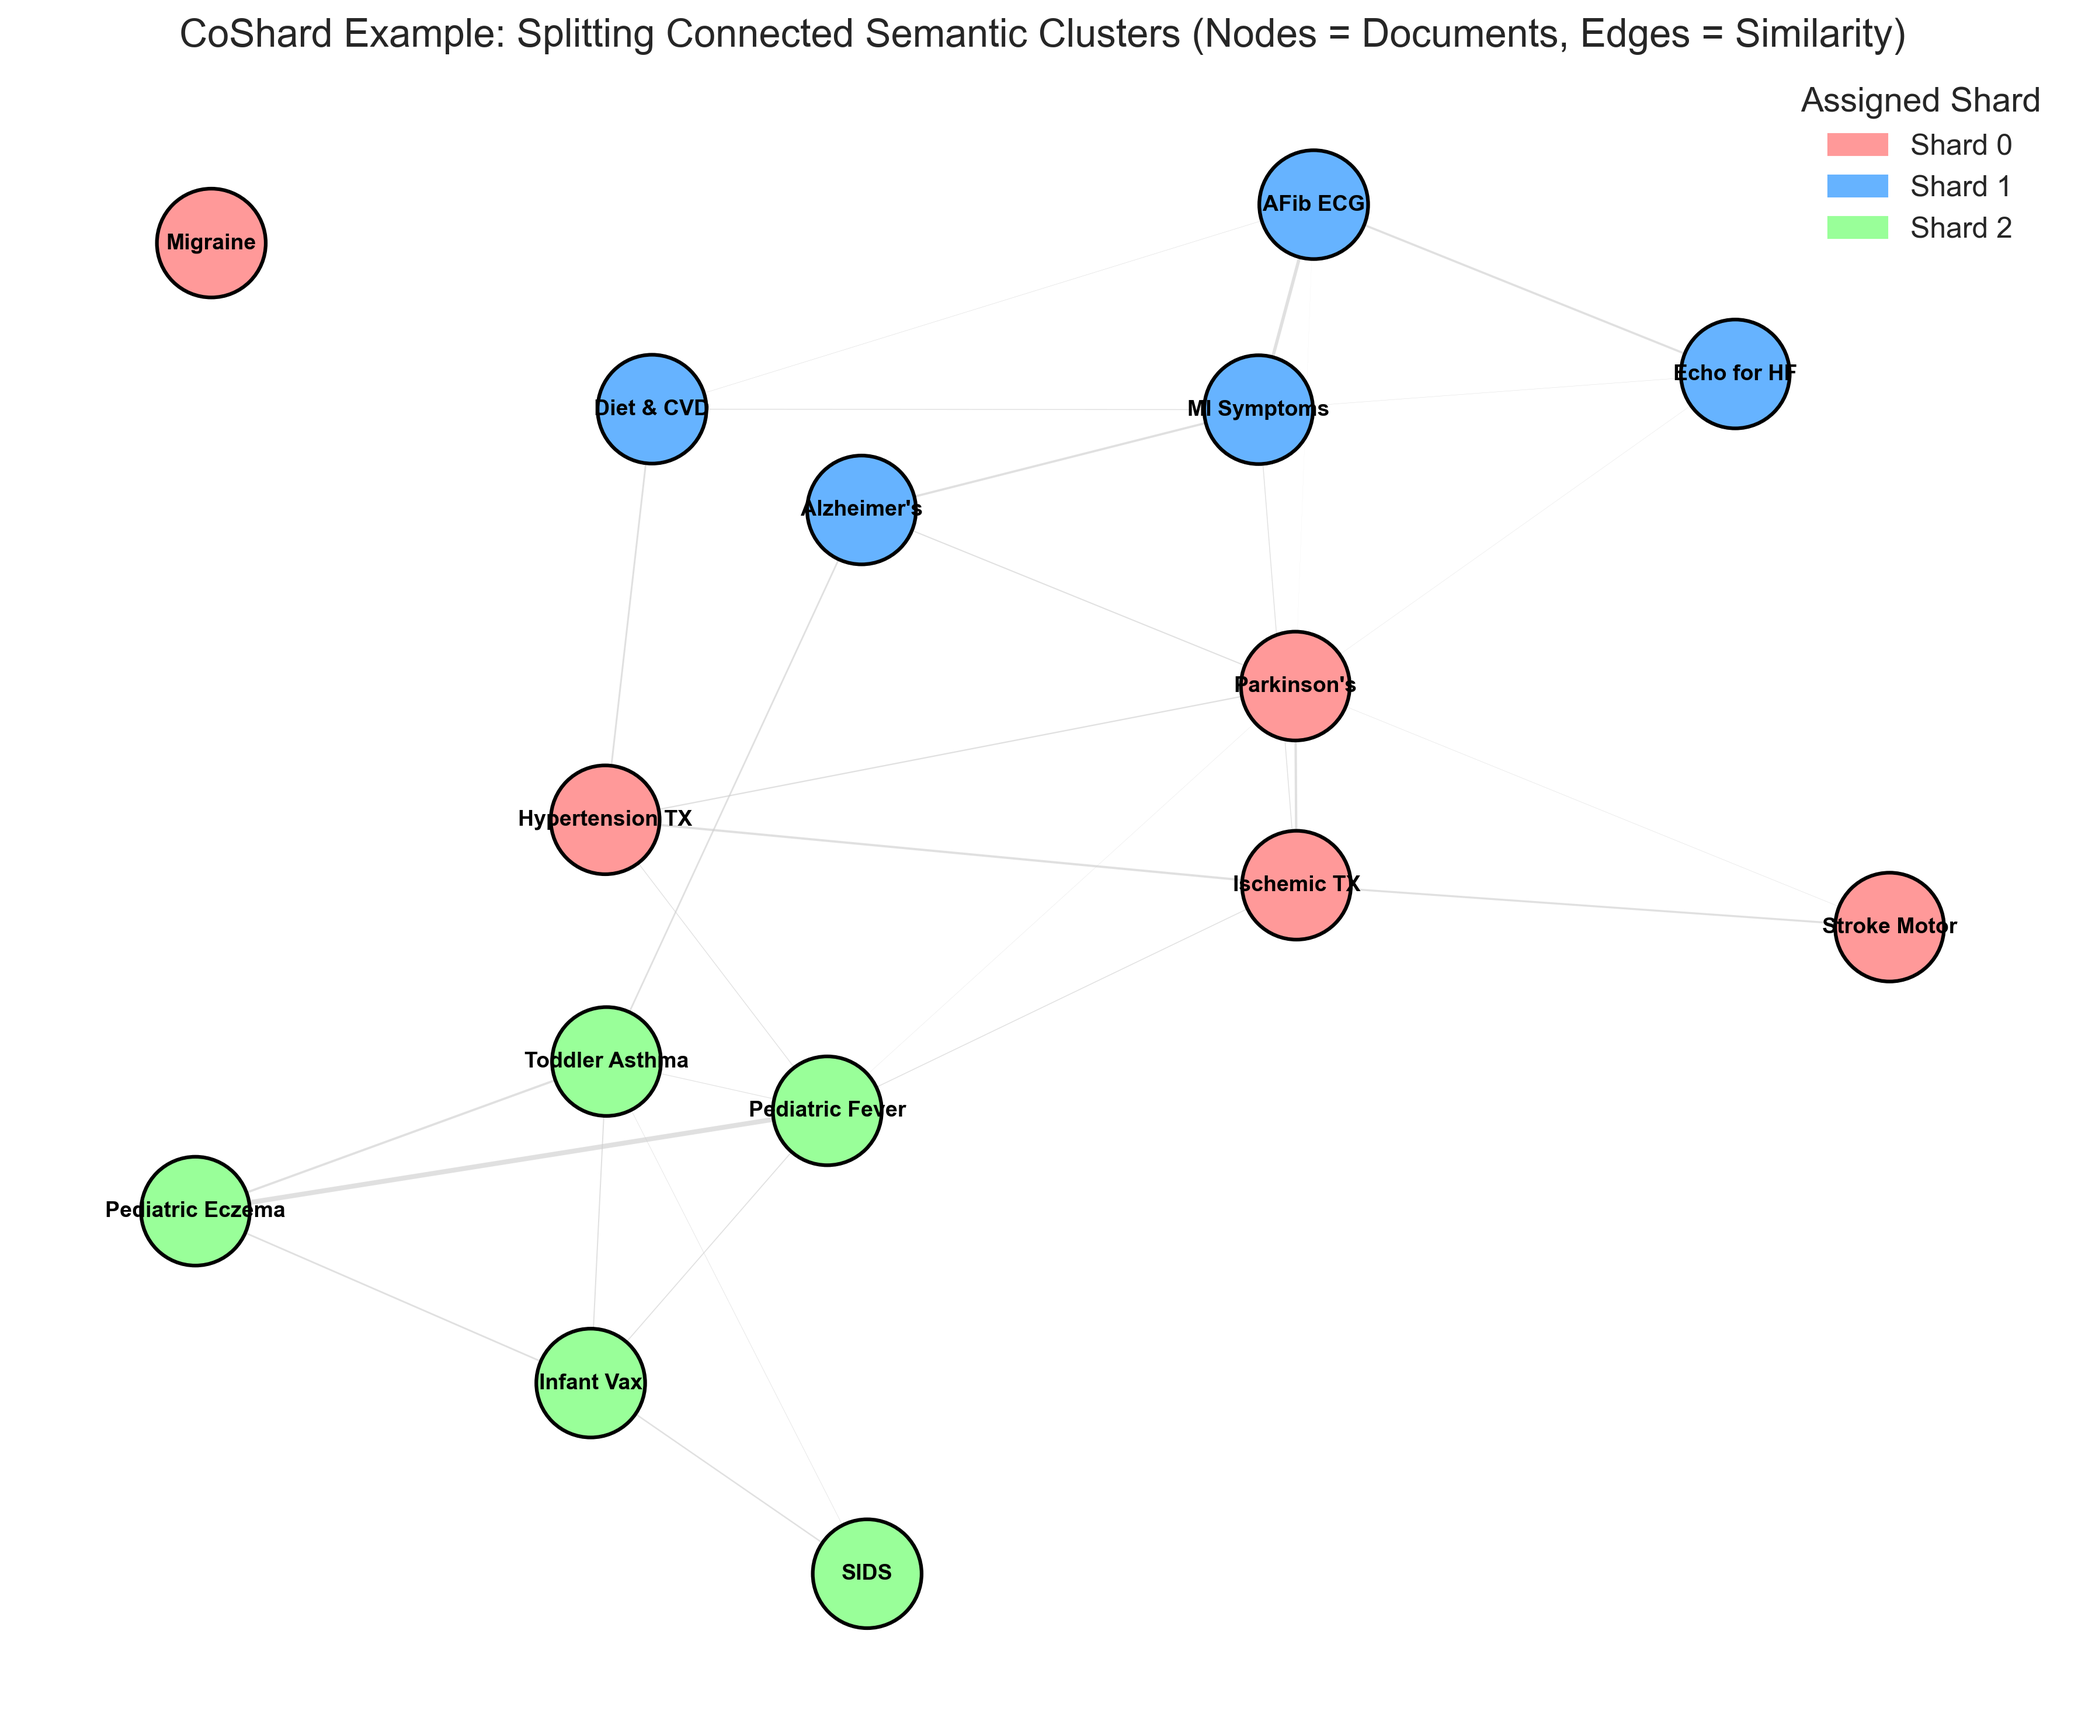
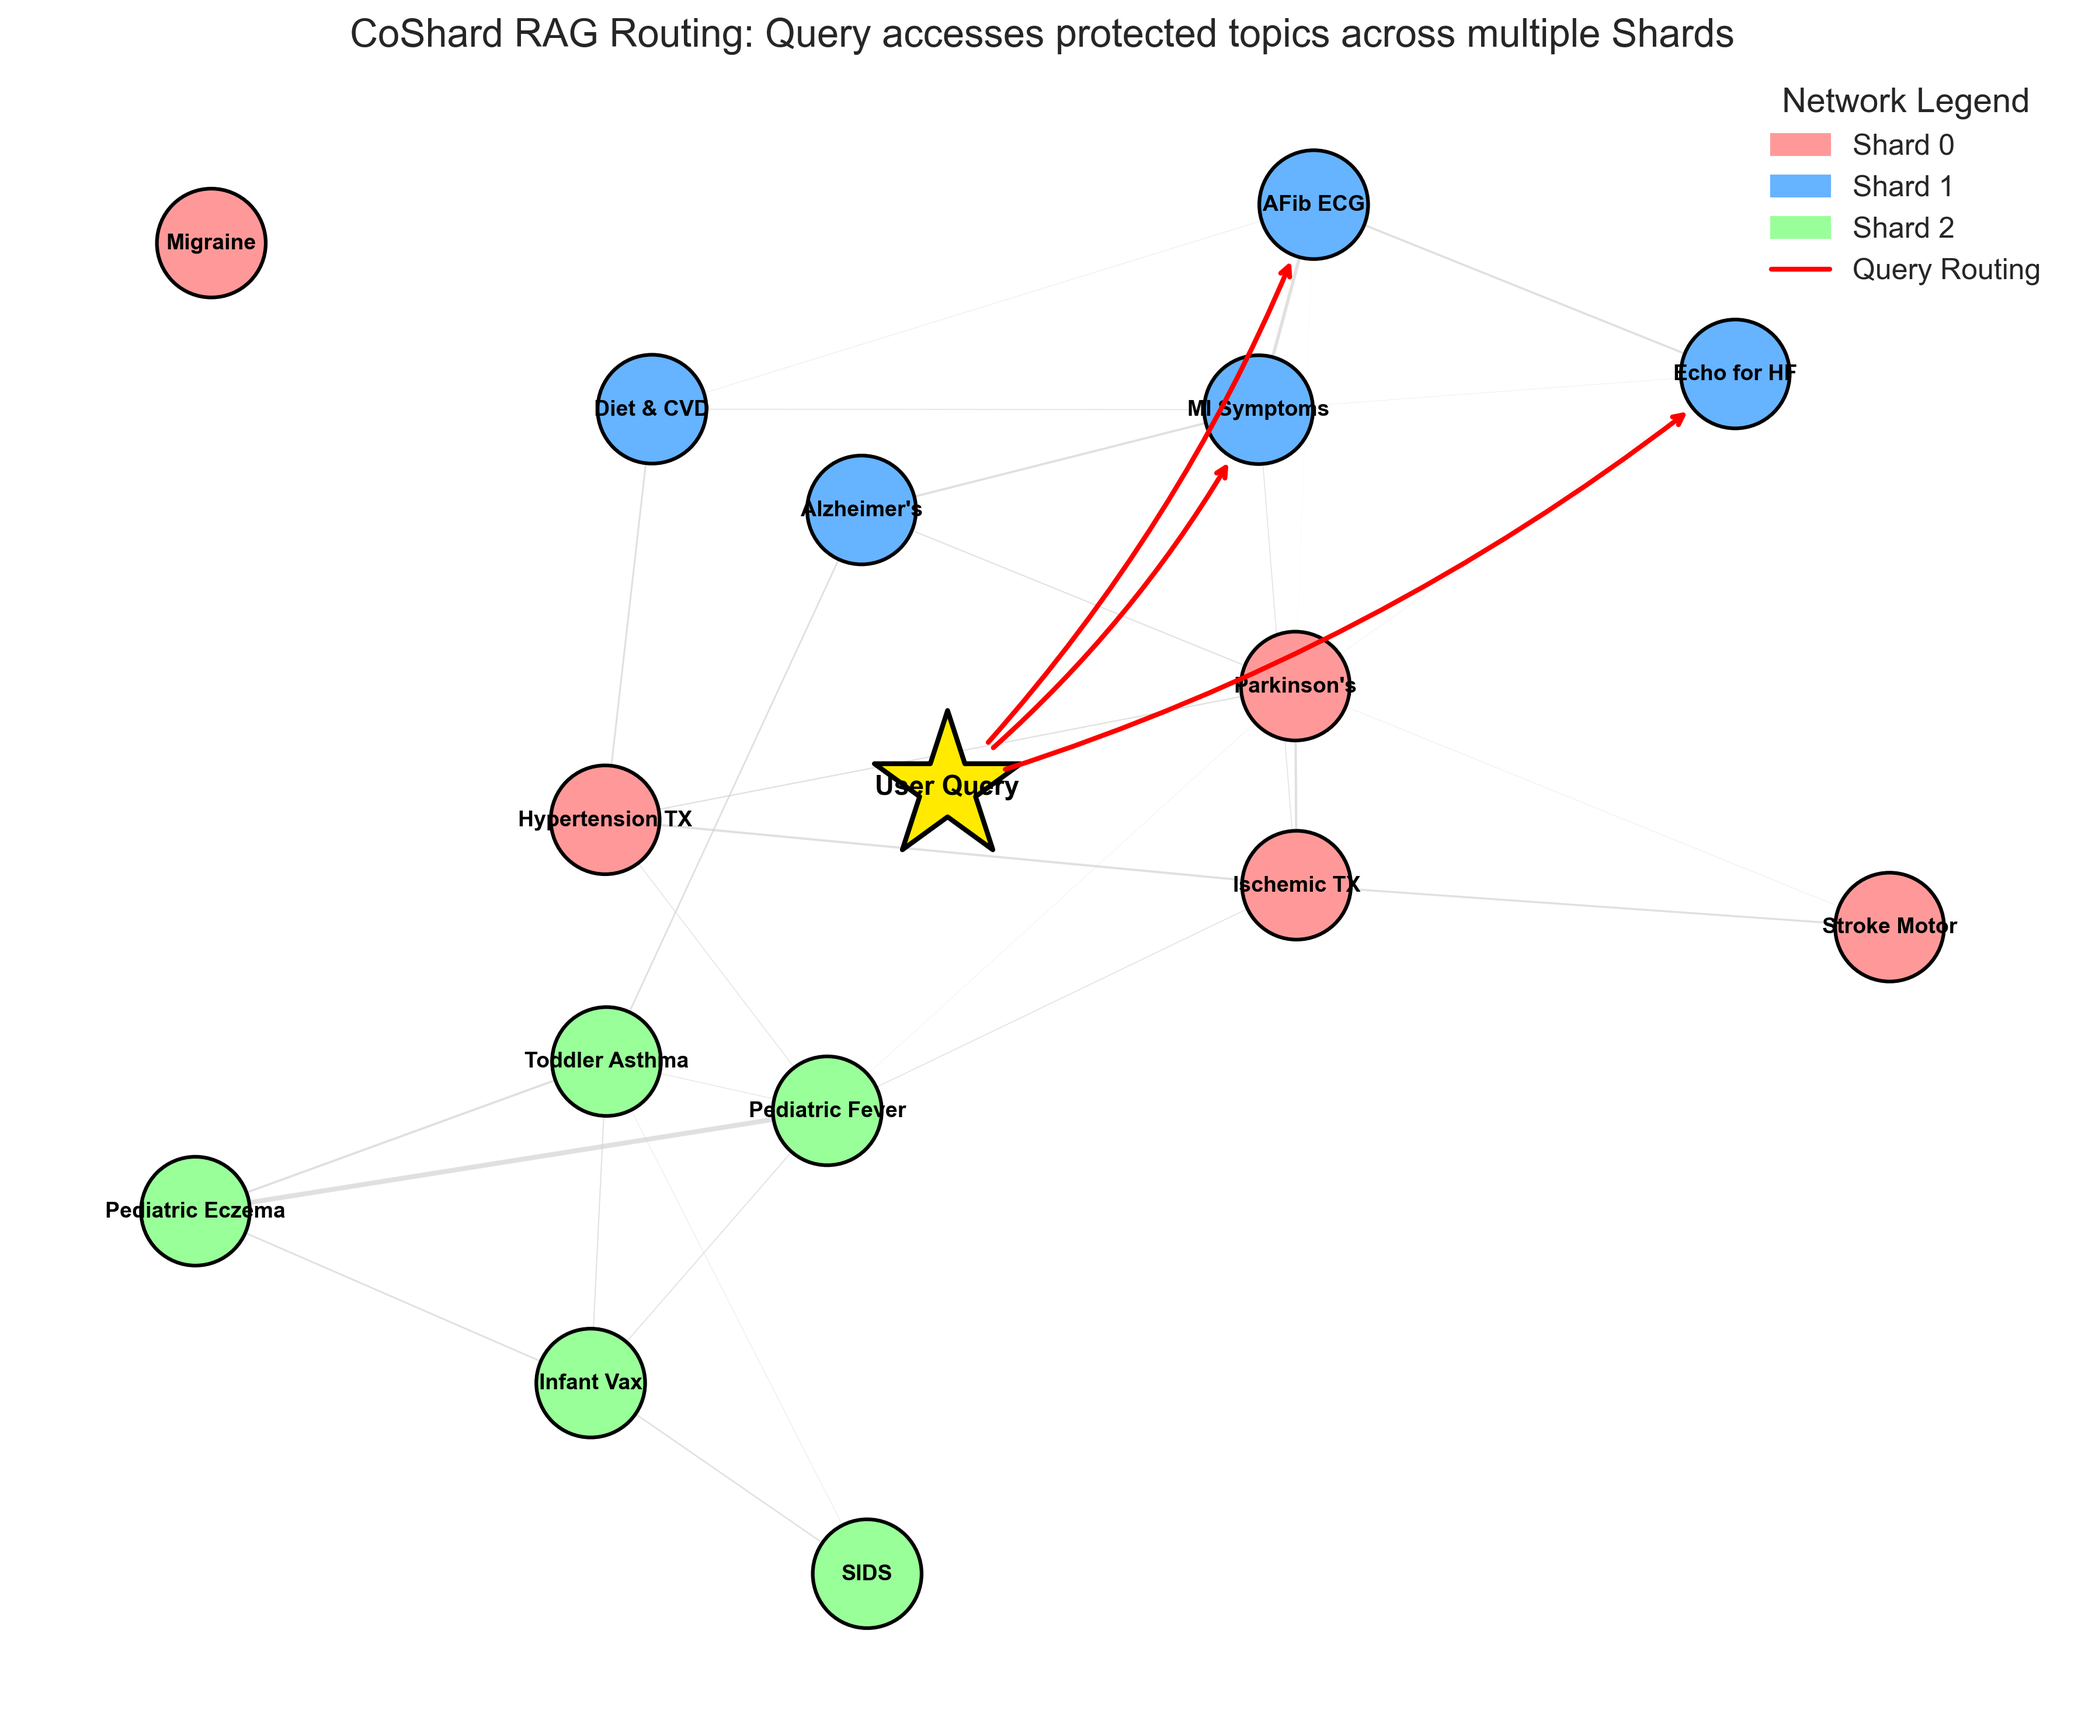
Updated visual diagram to include query routing

diff --git a/experiments/generate_example_graph.py b/experiments/generate_example_graph.py
@@ -38,81 +38,94 @@ def generate_example_graph():
         "What causes sudden infant death syndrome?"
     ]
     
-    # Short labels for the plot
+    # A realistic user query that falls into the Cardiology topic
+    user_query = "What diagnostic tests, such as Echo or ECG, confirm heart failure or infarction?"
+    
     labels = {
         0: "MI Symptoms", 1: "Echo for HF", 2: "Hypertension TX", 3: "Diet & CVD", 4: "AFib ECG",
         5: "Alzheimer's", 6: "Stroke Motor", 7: "Ischemic TX", 8: "Migraine", 9: "Parkinson's",
         10: "Infant Vax", 11: "Pediatric Fever", 12: "Toddler Asthma", 13: "Pediatric Eczema", 14: "SIDS"
     }
 
-    print("Embedding toy corpus...")
+    print("Embedding toy corpus and query...")
     embedder = DocumentEmbedder()
-    embs = embedder.embed_corpus(documents, "toy_example")
+    embs = embedder.embed_corpus(documents, "toy_example_docs")
+    query_emb = embedder.embed_corpus([user_query], "toy_example_query")[0]
     
     print("Building igraph...")
     threshold = 0.5
     ig_graph = build_similarity_graph(embs, threshold=threshold, top_k=5)
     
     print("Running CoShard...")
-    # Partition into 3 shards using CoShard with lambda=0.3 (favor secrecy slightly)
-    # This will force highly similar topics (e.g., Cardiology) to split across shards
-    # to protect the user's focus from being exposed.
+    # Partition into 3 shards using CoShard with lambda=0.3 to enforce privacy splitting
     shards = coshard_partition(ig_graph, embs, n_shards=3, lambda_weight=0.3, max_iterations=2)
     
-    # Map node to shard
     node_to_shard = {}
     for shard_idx, shard_nodes in enumerate(shards):
         for node in shard_nodes:
             node_to_shard[node] = shard_idx
             
-    print("Rendering NetworkX Graph...")
-    # Build NetworkX graph for plotting
+    # Calculate routing scores (similarity of query to documents)
+    query_sims = [np.dot(query_emb, embs[i]) for i in range(len(embs))]
+    top_3_targets = np.argsort(query_sims)[-3:]
+            
+    print("Rendering NetworkX Graph with Query Routing...")
     G = nx.Graph()
     for i in range(len(documents)):
-        G.add_node(i, label=labels[i], shard=node_to_shard[i])
+        G.add_node(i, label=labels[i], shard=node_to_shard[i], is_query=False)
         
-    # Add edges based on cosine similarity
     for i in range(len(embs)):
         for j in range(i+1, len(embs)):
             sim = np.dot(embs[i], embs[j])
             if sim > threshold:
                 G.add_edge(i, j, weight=sim)
                 
-    # Plotting
     plt.style.use('seaborn-v0_8-whitegrid')
     fig, ax = plt.subplots(figsize=(12, 10))
     
-    # Spring layout pulls connected nodes together
     pos = nx.spring_layout(G, seed=42, k=0.8)
     
-    # Extract colors
+    # Add Query Node manually to the center (approx 0,0)
+    query_node_id = 999
+    pos[query_node_id] = np.array([0.0, 0.0])
+    
     shard_colors = {0: '#ff9999', 1: '#66b3ff', 2: '#99ff99'}
     node_colors = [shard_colors[node_to_shard[i]] for i in range(len(documents))]
     
-    # Draw edges
     edges = G.edges()
     weights = [G[u][v]['weight'] for u, v in edges]
-    normalized_weights = [(w - threshold) * 10 for w in weights] # Scale for visibility
+    normalized_weights = [(w - threshold) * 10 for w in weights]
     
+    # Draw standard document nodes and similarity edges
     nx.draw_networkx_edges(G, pos, edge_color='#cccccc', width=normalized_weights, alpha=0.6, ax=ax)
-    
-    # Draw nodes
-    nx.draw_networkx_nodes(G, pos, node_color=node_colors, node_size=2000, 
-                           edgecolors='black', linewidths=1.5, ax=ax)
-    
-    # Draw labels
+    nx.draw_networkx_nodes(G, pos, nodelist=range(len(documents)), node_color=node_colors, 
+                           node_size=2000, edgecolors='black', linewidths=1.5, ax=ax)
     nx.draw_networkx_labels(G, pos, labels=labels, font_size=9, font_weight='bold', font_family='sans-serif', ax=ax)
     
-    # Legend
+    # Draw Query Node
+    nx.draw_networkx_nodes(G, pos, nodelist=[query_node_id], node_color='#ffea00', node_shape='*', 
+                           node_size=4000, edgecolors='black', linewidths=2.0, ax=ax)
+    nx.draw_networkx_labels(G, pos, labels={query_node_id: "User Query"}, font_size=11, font_weight='bold', ax=ax)
+    
+    # Draw Routing Arrows from Query to Top 3 Documents
+    for target in top_3_targets:
+        ax.annotate("",
+            xy=pos[target], xycoords='data',
+            xytext=pos[query_node_id], textcoords='data',
+            arrowprops=dict(arrowstyle="->", color="red", lw=2, shrinkA=25, shrinkB=25, connectionstyle="arc3,rad=0.1")
+        )
+    
     import matplotlib.patches as mpatches
-    legend_patches = [
+    from matplotlib.lines import Line2D
+    legend_elements = [
         mpatches.Patch(color='#ff9999', label='Shard 0'),
         mpatches.Patch(color='#66b3ff', label='Shard 1'),
-        mpatches.Patch(color='#99ff99', label='Shard 2')
+        mpatches.Patch(color='#99ff99', label='Shard 2'),
+        Line2D([0], [0], color='red', lw=2, label='Query Routing')
     ]
-    ax.legend(handles=legend_patches, loc='upper right', title="Assigned Shard", fontsize=12, title_fontsize=14)
+    ax.legend(handles=legend_elements, loc='upper right', title="Network Legend", fontsize=12, title_fontsize=14)
     
-    ax.set_title("CoShard Example: Splitting Connected Semantic Clusters (Nodes = Documents, Edges = Similarity)", fontsize=16)
+    ax.set_title("CoShard RAG Routing: Query accesses protected topics across multiple Shards", fontsize=16)
     ax.axis('off')
     
     os.makedirs('experiments/results/figures', exist_ok=True)

diff --git a/docs/architecture.md b/docs/architecture.md
@@ -1,6 +1,6 @@
 # CoShard Architecture Diagram
 
-This flowchart illustrates the conceptual pipeline of the CoShard algorithm, from raw text ingestion to final privacy-preserving shards.
+This flowchart illustrates the complete CoShard pipeline, demonstrating both the offline privacy-preserving partitioning of the corpus and the online routing of a user query across the distributed shards.
 
 ```mermaid
 flowchart TD
@@ -9,29 +9,33 @@ flowchart TD
     classDef process fill:#fff3e0,stroke:#f57c00,stroke-width:2px,color:#000
     classDef alg fill:#e8f5e9,stroke:#388e3c,stroke-width:2px,color:#000
     classDef output fill:#fce4ec,stroke:#c2185b,stroke-width:2px,color:#000
+    classDef query fill:#fff9c4,stroke:#fbc02d,stroke-width:2px,color:#000
+    classDef router fill:#d1c4e9,stroke:#5e35b1,stroke-width:2px,color:#000
     classDef note fill:#ffffff,stroke:#999,stroke-width:1px,stroke-dasharray: 5 5,color:#555
     
-    %% Nodes
-    Corpus[Raw Document Corpus]:::input
-    Embed[Embedding Model<br/>(e.g., BGE-Large)]:::process
-    SimMatrix[Cosine Similarity Matrix]:::process
-    Graph[K-NN Similarity Graph<br/>(Edges = Similarity > τ)]:::process
-    
-    subgraph CoShard Algorithm
-        Leiden[Phase 1: Leiden Modularity<br/>Maximize Semantic Coherence]:::alg
-        Refine[Phase 2: SHADE Penalty Refinement<br/>Node Swapping via Gain Function]:::alg
+    subgraph Phase 1: Offline Corpus Partitioning
+        Corpus[Raw Document Corpus]:::input --> Embed1[Embedding Model]:::process
+        Embed1 -->|Vectors| Graph[K-NN Similarity Graph]:::process
+        
+        Graph --> Leiden[Leiden Modularity Max]:::alg
+        Leiden -->|Initial Communities| Refine[SHADE Penalty Refinement]:::alg
+        Refine -->|Converged Partition| Shards[Distributed Privacy Shards]:::output
     end
     
-    Shards[Final Output Shards<br/>Balanced Utility & Privacy]:::output
-    
-    %% Edges
-    Corpus --> Embed
-    Embed -->|Vectors| SimMatrix
-    SimMatrix -->|Thresholding| Graph
-    
-    Graph --> Leiden
-    Leiden -->|Initial Communities| Refine
-    Refine -->|Converged Partition| Shards
+    subgraph Phase 2: Online Query Routing (RAG)
+        UserQuery((User Query)):::query --> Embed2[Embedding Model]:::process
+        Embed2 --> Router{Central Router}:::router
+        
+        Shards -.->|Centroid Embeddings| Router
+        Router == "Top-K Selection" ==> Shards
+        
+        Shards --> LLM1[Local LLM 1]:::process
+        Shards --> LLM2[Local LLM 2]:::process
+        
+        LLM1 --> Agg[Aggregator]:::process
+        LLM2 --> Agg
+        Agg --> Answer((Final Answer)):::query
+    end
     
     %% Annotations
     Note1["Gain = λΔ(Coh) - (1-λ)Δ(SHADE)"]:::note
